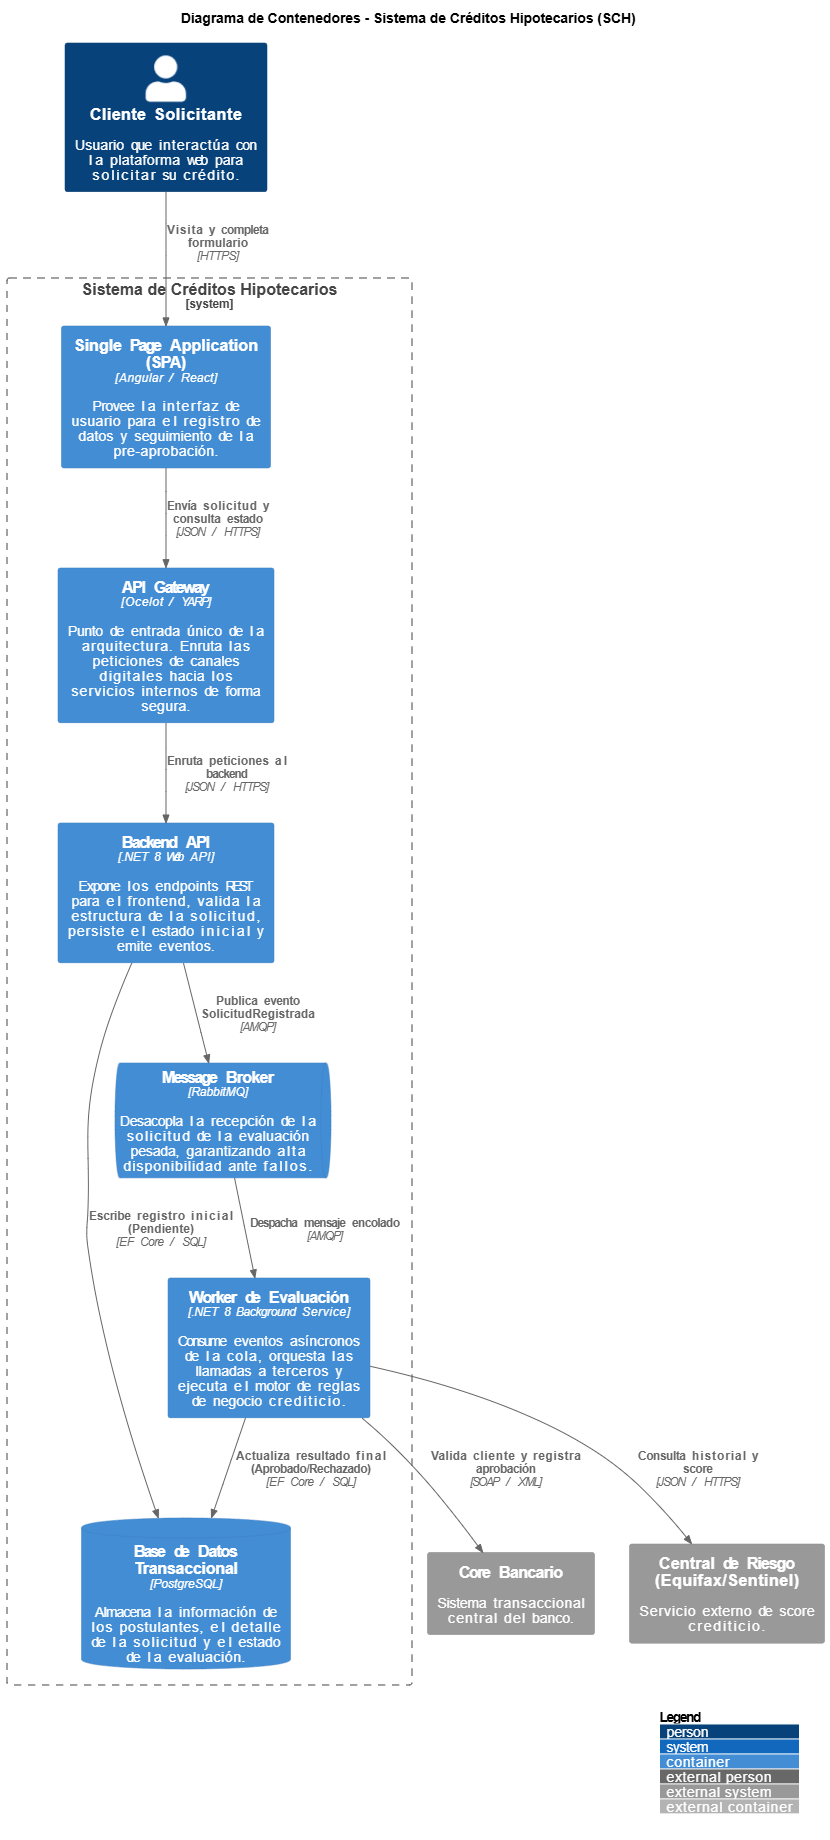
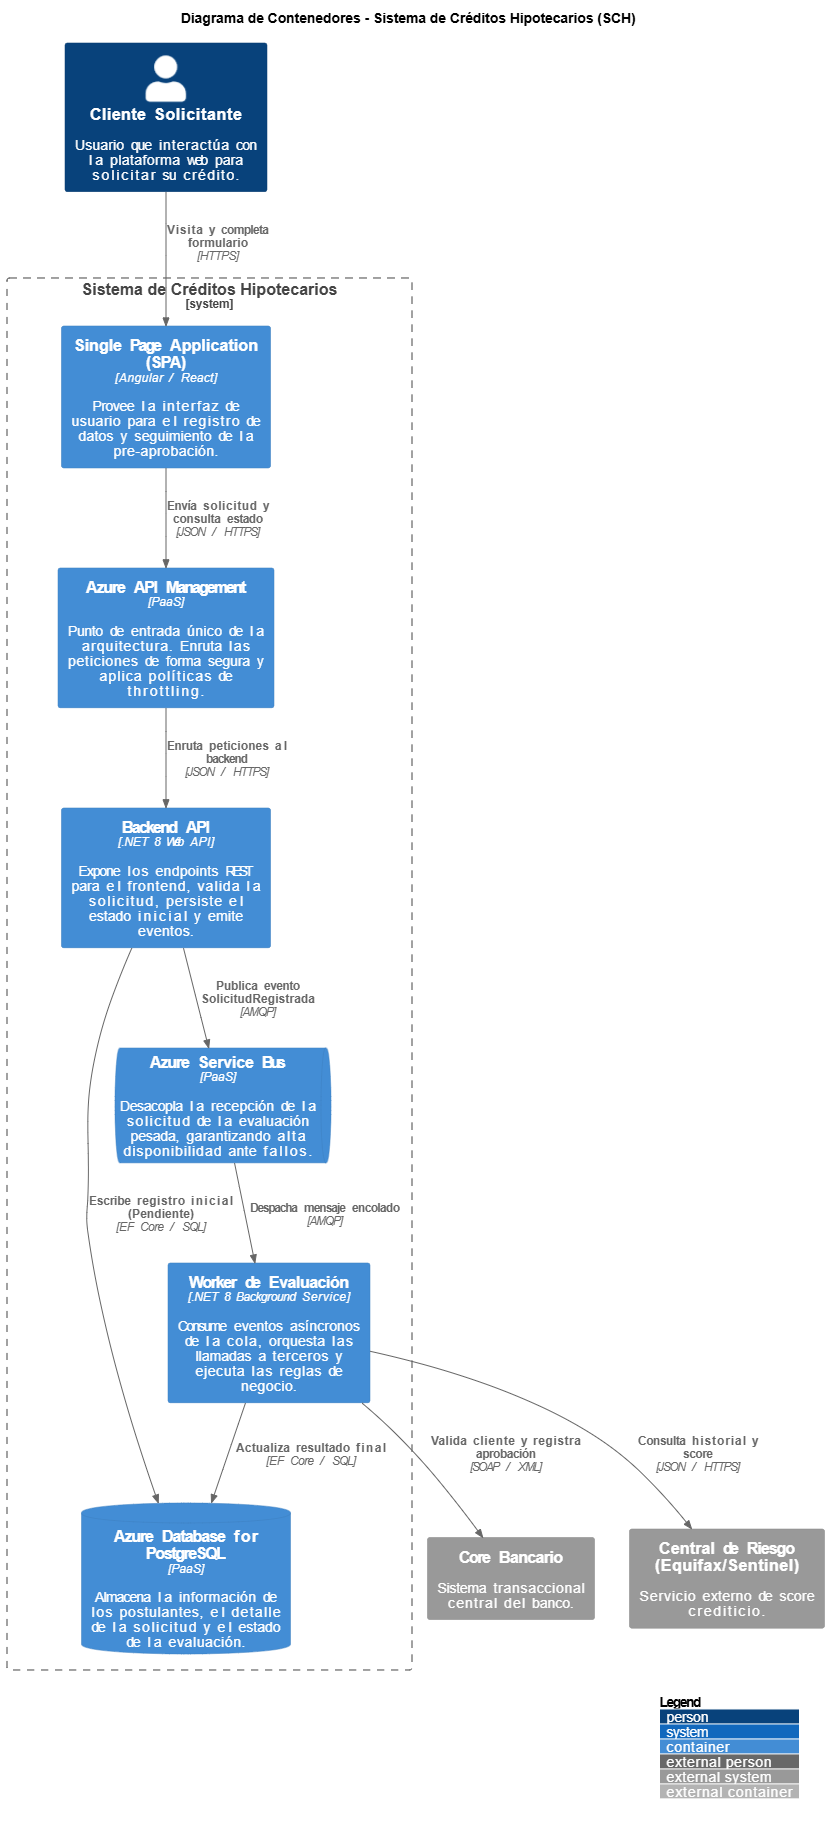
subir

diff --git a/modelo-c4/nivel-3-componente.md b/modelo-c4/nivel-3-componente.md
@@ -1,1 +1,41 @@
+# Modelo C4 - Nivel 3: Componentes
 
+En este nivel hacemos un acercamiento exclusivo al contenedor **Backend API (.NET 8)** para detallar su estructura interna. Aquí se muestra la separación de responsabilidades a través de patrones de diseño clásico (Controlador, Servicio, Repositorio) que garantizan un código limpio y mantenible.
+
+## Diagrama de Componentes Visual
+
+![Diagrama de Componentes](nivel3.png)
+
+---
+
+## Código Fuente de la Arquitectura (PlantUML)
+
+El siguiente código modela los componentes internos del Backend API utilizando el estándar C4-PlantUML local:
+
+```plantuml
+@startuml
+!include <C4/C4_Component>
+
+LAYOUT_WITH_LEGEND()
+
+title Diagrama de Componentes - Backend API (.NET 8)
+
+Container(apiGw, "API Gateway", "Ocelot / YARP", "Enruta peticiones al backend.")
+ContainerDb(db, "Base de Datos", "PostgreSQL", "Almacena el registro de solicitudes.")
+ContainerQueue(broker, "Message Broker", "RabbitMQ", "Cola de mensajería asíncrona.")
+
+Container_Boundary(api, "Backend API (.NET 8)") {
+    Component(controller, "Solicitud Controller", "ASP.NET Core Web API", "Punto de entrada REST. Recibe el payload HTTP, valida el formato básico de los datos y retorna el HTTP 202 Accepted.")
+    Component(service, "Solicitud Service", "C# Class", "Orquesta la lógica del flujo de entrada. Coordina el guardado en base de datos y ordena la emisión del evento asíncrono.")
+    Component(repository, "Solicitud Repository", "Entity Framework Core", "Maneja la abstracción de acceso a datos. Traduce los objetos de dominio a tablas relacionales.")
+    Component(publisher, "Event Publisher", "MassTransit / RabbitMQ Client", "Encapsula la complejidad de conexión al broker y la serialización del mensaje.")
+}
+
+Rel(apiGw, controller, "Rutea peticiones REST", "JSON / HTTPS")
+Rel(controller, service, "Invoca proceso de registro", "C#")
+Rel(service, repository, "Delega persistencia", "C#")
+Rel(service, publisher, "Delega notificación de evento", "C#")
+
+Rel(repository, db, "Inserta estado inicial (Pendiente)", "EF Core / SQL")
+Rel(publisher, broker, "Publica evento SolicitudRegistradaEvent", "AMQP")
+@enduml

diff --git a/modelo-c4/nivel-2-contenedor.md b/modelo-c4/nivel-2-contenedor.md
@@ -1,6 +1,6 @@
 # Modelo C4 - Nivel 2: Contenedores
 
-En este nivel hacemos un "zoom" dentro del Sistema de Créditos Hipotecarios (SCH) para visualizar sus contenedores principales. Aquí se exponen las decisiones tecnológicas clave, como el uso de microservicios, bases de datos y la cola de mensajería para el procesamiento asíncrono.
+En este nivel hacemos un "zoom" dentro del Sistema de Créditos Hipotecarios (SCH) para visualizar sus contenedores principales. Aquí se exponen las decisiones tecnológicas clave, migrando hacia componentes administrados en la nube para asegurar escalabilidad y alta disponibilidad.
 
 ## Diagrama de Contenedores Visual
 
@@ -10,7 +10,7 @@ En este nivel hacemos un "zoom" dentro del Sistema de Créditos Hipotecarios (SC
 
 ## Código Fuente de la Arquitectura (PlantUML)
 
-El siguiente código respalda el diagrama superior, estructurado bajo el estándar C4-PlantUML sin dependencias externas para garantizar su mantenibilidad:
+El siguiente código respalda el diagrama superior, estructurado bajo el estándar C4-PlantUML:
 
 ```plantuml
 @startuml
@@ -27,11 +27,11 @@ System_Ext(centralRiesgo, "Central de Riesgo (Equifax/Sentinel)", "Servicio exte
 
 System_Boundary(sch, "Sistema de Créditos Hipotecarios") {
     Container(spa, "Single Page Application (SPA)", "Angular / React", "Provee la interfaz de usuario para el registro de datos y seguimiento de la pre-aprobación.")
-    Container(apiGw, "API Gateway", "Ocelot / YARP", "Punto de entrada único de la arquitectura. Enruta las peticiones de canales digitales hacia los servicios internos de forma segura.")
-    Container(backendApi, "Backend API", ".NET 8 Web API", "Expone los endpoints REST para el frontend, valida la estructura de la solicitud, persiste el estado inicial y emite eventos.")
-    ContainerDb(db, "Base de Datos Transaccional", "PostgreSQL", "Almacena la información de los postulantes, el detalle de la solicitud y el estado de la evaluación.")
-    ContainerQueue(broker, "Message Broker", "RabbitMQ", "Desacopla la recepción de la solicitud de la evaluación pesada, garantizando alta disponibilidad ante fallos.")
-    Container(worker, "Worker de Evaluación", ".NET 8 Background Service", "Consume eventos asíncronos de la cola, orquesta las llamadas a terceros y ejecuta el motor de reglas de negocio crediticio.")
+    Container(apiGw, "Azure API Management", "PaaS", "Punto de entrada único de la arquitectura. Enruta las peticiones de forma segura y aplica políticas de throttling.")
+    Container(backendApi, "Backend API", ".NET 8 Web API", "Expone los endpoints REST para el frontend, valida la solicitud, persiste el estado inicial y emite eventos.")
+    ContainerDb(db, "Azure Database for PostgreSQL", "PaaS", "Almacena la información de los postulantes, el detalle de la solicitud y el estado de la evaluación.")
+    ContainerQueue(broker, "Azure Service Bus", "PaaS", "Desacopla la recepción de la solicitud de la evaluación pesada, garantizando alta disponibilidad ante fallos.")
+    Container(worker, "Worker de Evaluación", ".NET 8 Background Service", "Consume eventos asíncronos de la cola, orquesta las llamadas a terceros y ejecuta las reglas de negocio.")
 }
 
 Rel(cliente, spa, "Visita y completa formulario", "HTTPS")
@@ -40,7 +40,7 @@ Rel(apiGw, backendApi, "Enruta peticiones al backend", "JSON / HTTPS")
 Rel(backendApi, db, "Escribe registro inicial (Pendiente)", "EF Core / SQL")
 Rel(backendApi, broker, "Publica evento SolicitudRegistrada", "AMQP")
 Rel(broker, worker, "Despacha mensaje encolado", "AMQP")
-Rel(worker, db, "Actualiza resultado final (Aprobado/Rechazado)", "EF Core / SQL")
+Rel(worker, db, "Actualiza resultado final", "EF Core / SQL")
 
 Rel(worker, centralRiesgo, "Consulta historial y score", "JSON / HTTPS")
 Rel(worker, core, "Valida cliente y registra aprobación", "SOAP / XML")